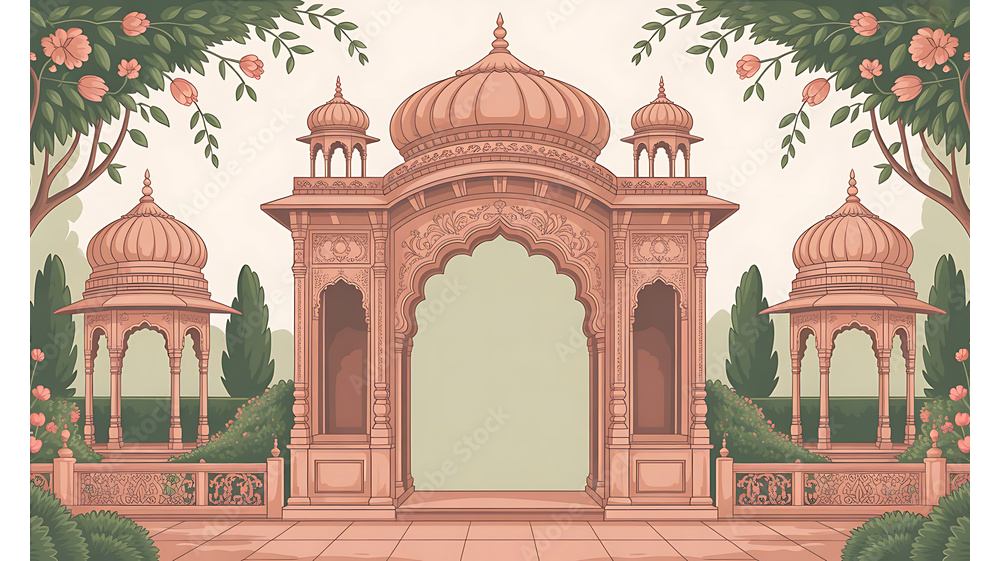
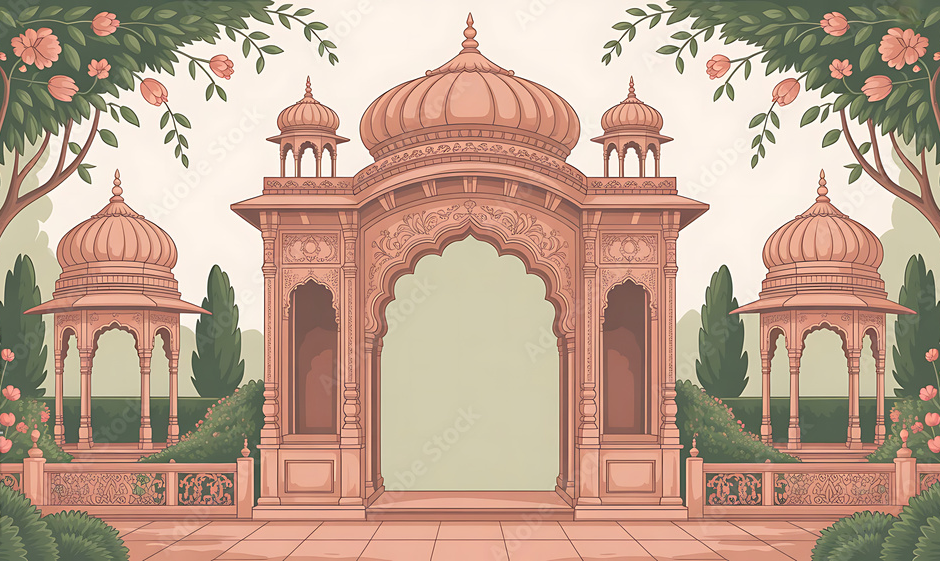
adding some touch ups

diff --git a/wedding-invite/index.html b/wedding-invite/index.html
@@ -56,27 +56,29 @@
   .songchip button{border:none;background:transparent;color:var(--ink-soft);cursor:pointer;font-size:17px;line-height:1;padding:0 2px}
   .songchip button:hover{color:var(--accent)}
 
+  /* Backdrop size locked to the SMALL viewport so it never re-scales when the
+     mobile URL bar shows/hides on scroll (no zoom jump). Falls back to vh. */
+  #backdrop{width:100%;height:100vh;height:100svh}
+
   /* ---------- mobile-only tweaks (desktop untouched) ---------- */
   @media (max-width:640px){
     html,body{overflow-x:clip}
     /* backdrop: correct aspect ratio, stays fixed/stationary */
     #backdrop{background-size:cover !important;background-position:center top !important}
-    /* India map: stop the location pills (nowrap, absolutely placed) from
-       overflowing — drop them below the map as a centered stack instead */
-    .mapwrap{width:min(320px,86vw) !important;display:flex !important;flex-direction:column;align-items:center}
-    .maplabel{position:static !important;left:auto !important;top:auto !important;
-              display:inline-flex !important;justify-content:center;width:auto;
-              margin:8px 0 !important;white-space:normal !important}
-    .maplabel:first-of-type{order:-1;align-self:flex-end;margin-bottom:10px !important}  /* Patna (north-east) nudged right, above the map */
-    .maplabel:last-of-type{align-self:flex-start}  /* Palasamudram (south) nudged left, below the map */
-    .maplabel span:last-child{font-size:14px !important}
+    /* India map: place each pill right by its own dot (Patna above its dot,
+       Palasamudram below its dot), centered on the dot and sized to fit */
+    .mapwrap{width:min(340px,90vw) !important}
+    .maplabel{padding:5px 9px !important;white-space:nowrap !important}
+    .maplabel span:last-child{font-size:11.5px !important}
+    .maplabel:first-of-type{left:58% !important;top:25% !important;transform:translateX(-50%) !important}   /* Patna — just above its dot */
+    .maplabel:last-of-type{left:34% !important;top:83% !important;transform:translateX(-50%) !important}     /* Palasamudram — just below its dot */
   }
 </style>
 </head>
 <body>
 
 <!-- backdrop artwork -->
-<div id="backdrop" style="position:fixed;inset:0;z-index:0;pointer-events:none;background-image:url('assets/backdrop.png');background-size:cover;background-position:center top;background-repeat:no-repeat;background-color:var(--bg);opacity:.30"></div>
+<div id="backdrop" style="position:fixed;top:0;left:0;z-index:0;pointer-events:none;background-image:url('assets/backdrop.png');background-size:cover;background-position:center top;background-repeat:no-repeat;background-color:var(--bg);opacity:.30"></div>
 <!-- falling petals -->
 <div id="petals" style="position:fixed;inset:0;z-index:0;pointer-events:none;overflow:hidden"></div>
 <!-- confetti -->
@@ -204,7 +206,7 @@
         <div style="padding:34px 30px 32px">
           <div style="font-family:'Noto Serif Telugu',serif;font-weight:600;font-size:18px;color:var(--accent)">వివాహ వేడుక</div>
           <h3 style="margin:6px 0 2px;font-family:'Cormorant Garamond',serif;font-weight:700;font-size:34px;color:var(--ink)">The Reception</h3>
-          <div style="font-family:'Marcellus',serif;letter-spacing:.16em;text-transform:uppercase;font-size:12px;color:#83493E;margin-bottom:22px;font-weight:800">The feast &amp; the dancing</div>
+          <div style="font-family:'Marcellus',serif;letter-spacing:.16em;text-transform:uppercase;font-size:12px;color:#83493E;margin-bottom:22px;font-weight:800">The post wedding party</div>
           <div style="display:flex;flex-direction:column;gap:13px;font-size:19px;color:var(--ink)">
             <div style="display:flex;gap:12px;align-items:baseline"><span style="font-family:'Marcellus',serif;font-size:14px;letter-spacing:.14em;text-transform:uppercase;color:var(--ink-soft);min-width:62px">When</span><span>Saturday, December 19, 2026 · 7:00 PM</span></div>
             <div style="display:flex;gap:12px;align-items:baseline"><span style="font-family:'Marcellus',serif;font-size:14px;letter-spacing:.14em;text-transform:uppercase;color:var(--ink-soft);min-width:62px">Where</span><span>Palasamudram, Andhra Pradesh, India</span></div>